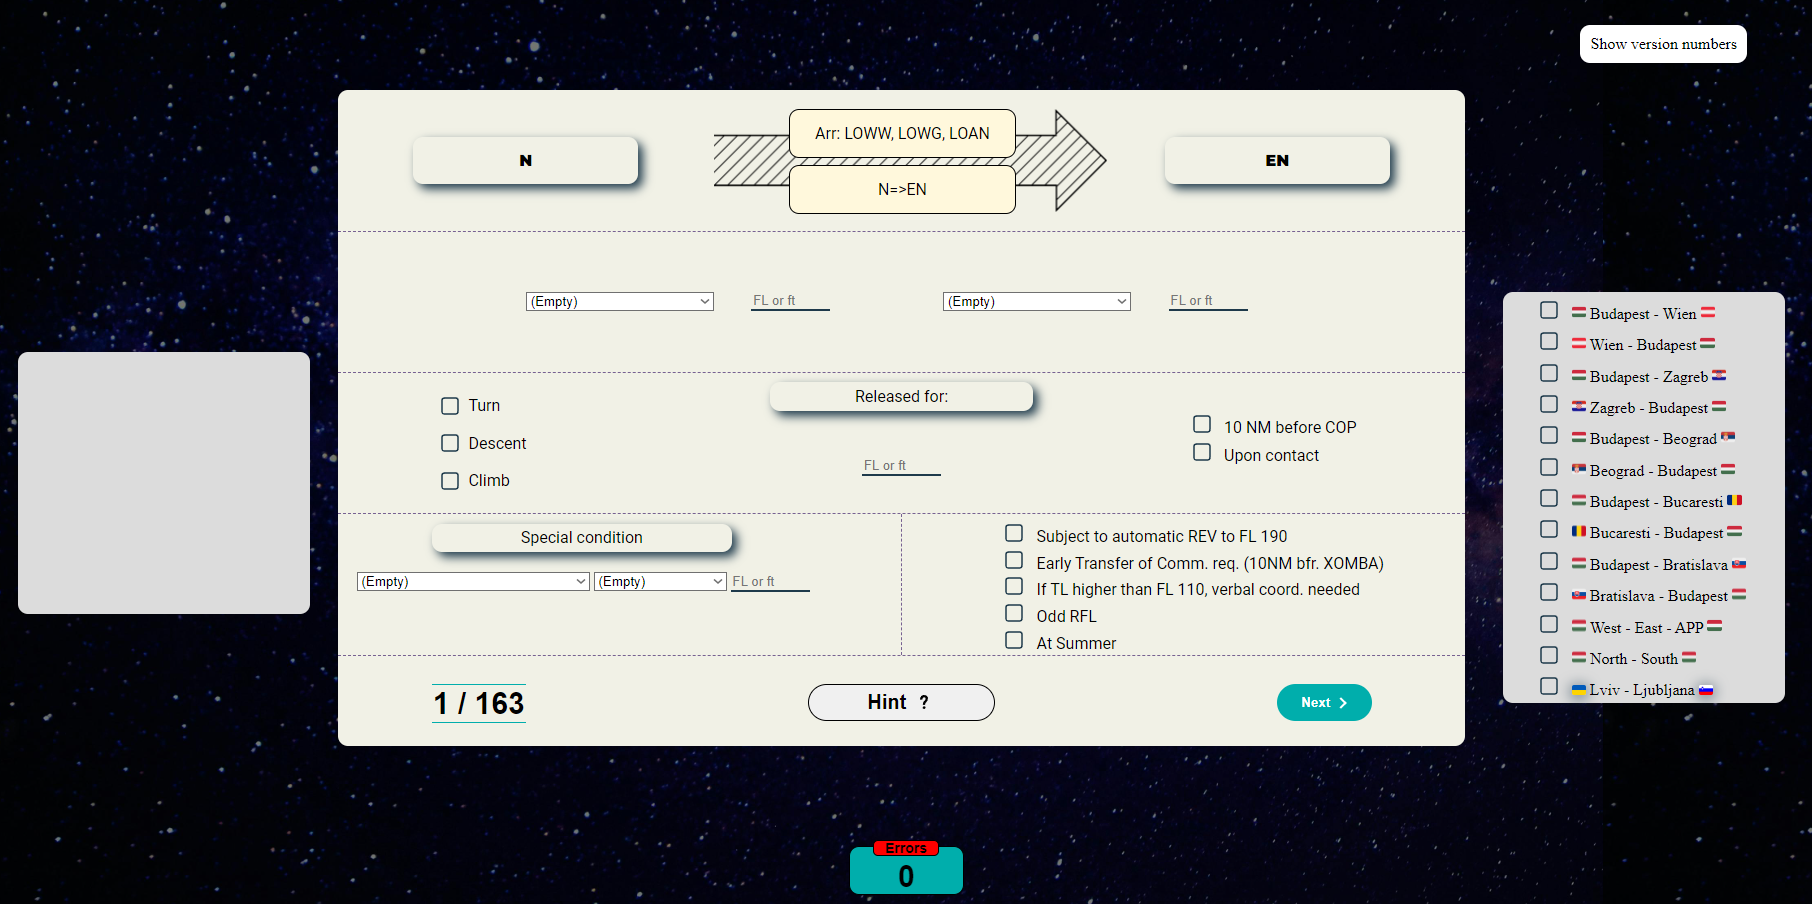
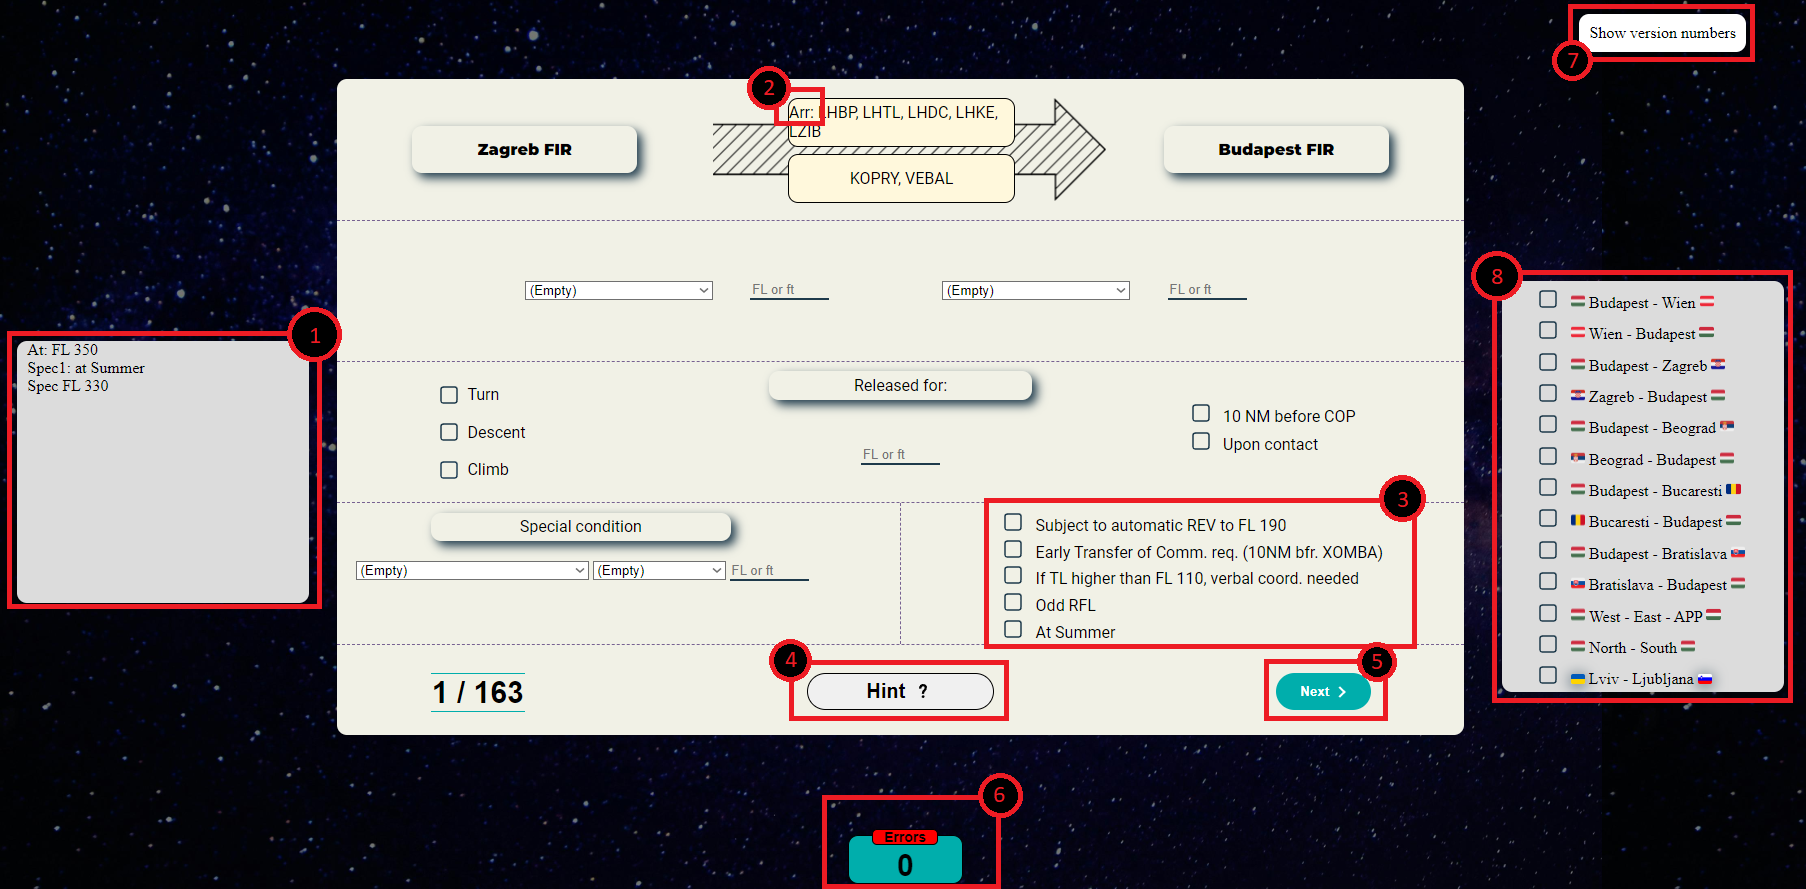
ReadMe kiegeszitve leirassal

diff --git a/README.md b/README.md
@@ -1,5 +1,19 @@
 # Constraint-ACS
 
-MainFL
+Leiras
 
 ![Leiras](https://github.com/Thomson1511/Constraint-ACS/blob/e23f5b017e81d2bb6dbffa12d3b6b02358e7247d/Images/Readme.PNG)
+
+1: Itt látható a segítség ha a Hint gombra kattintasz
+2: A repterek előtt Arrival/Departure látható rövidítve
+3: Ez a mező különbözik telón és gépen, telón rövidítve van:
+    auto Rev => Subject to automatic REV to FL 190
+    early => Early Transfer of Comm. req. (10NM bfr. XOMBA)
+    TL H110 => If TL higher than FL 110, verbal coord. needed
+    Odd RFL => Odd RFL
+    at Sum => At Summer
+4: Segítség
+5: Következő constraintra lépés (csak helyes válaszra lép tovább)
+6: Hibák száma, ha végig értél az összesen kapsz egy értesítést azokkal a constraintekkel amiket elrontottál
+7: Nem lényeges gomb, itt vezetem a LoA azonosítókat, ha nem egyezik meg a legfrissebbel és frissült egy/több constraint, akkor frissítenem kell
+8: Kiválaszthatod melyik constrainteket kérdezze
